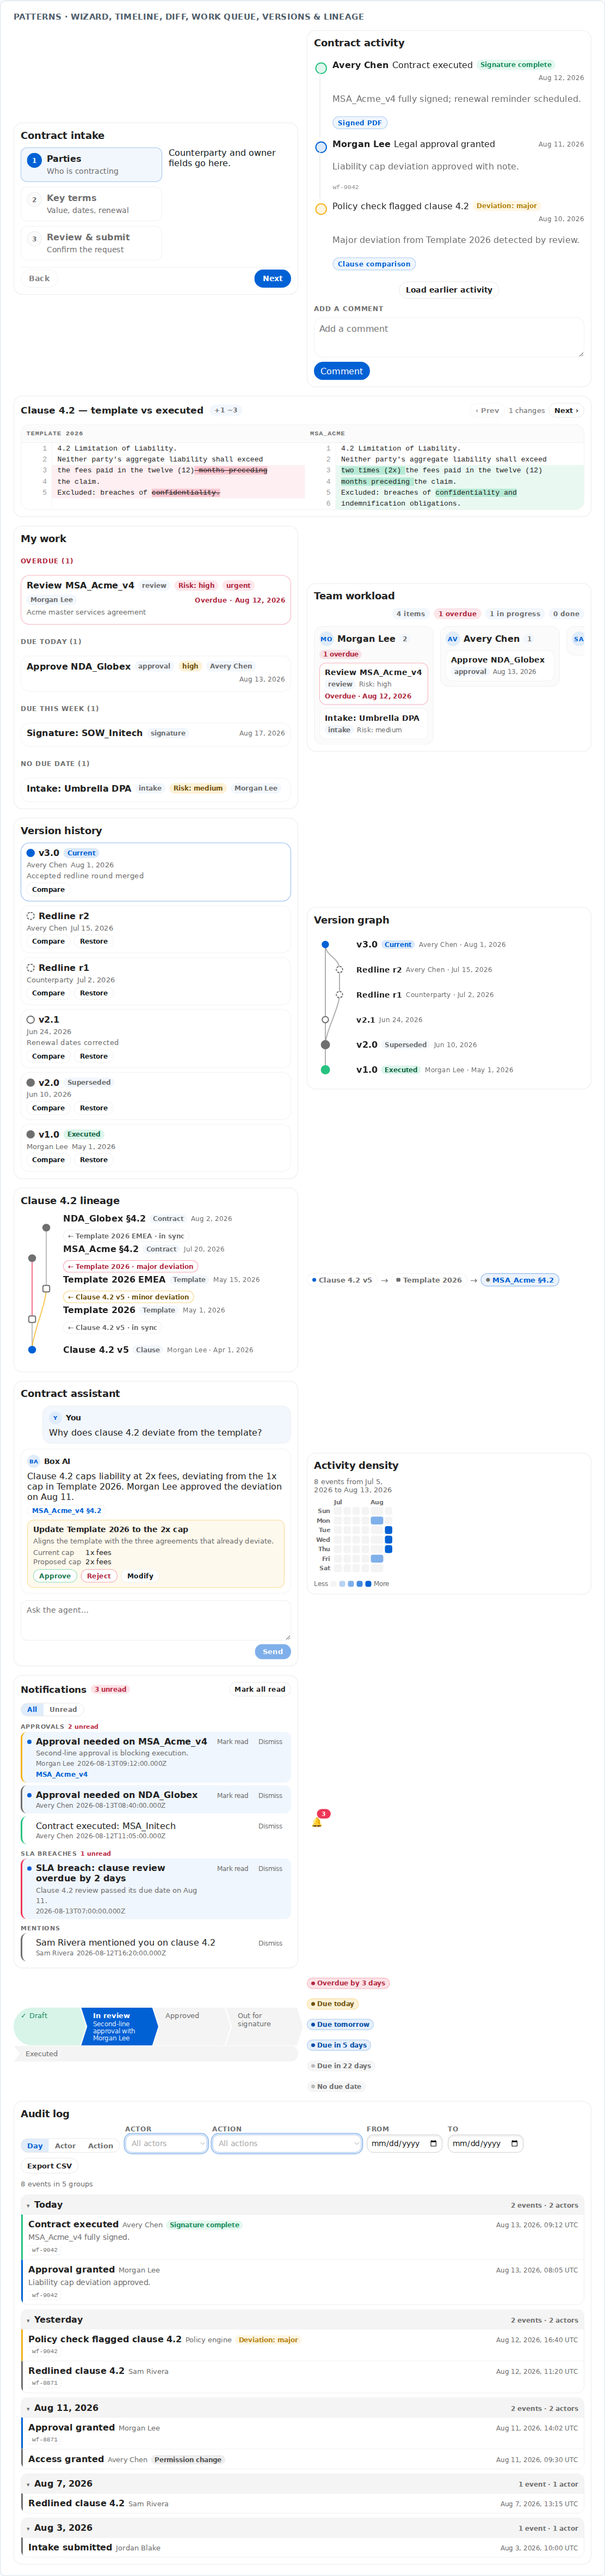
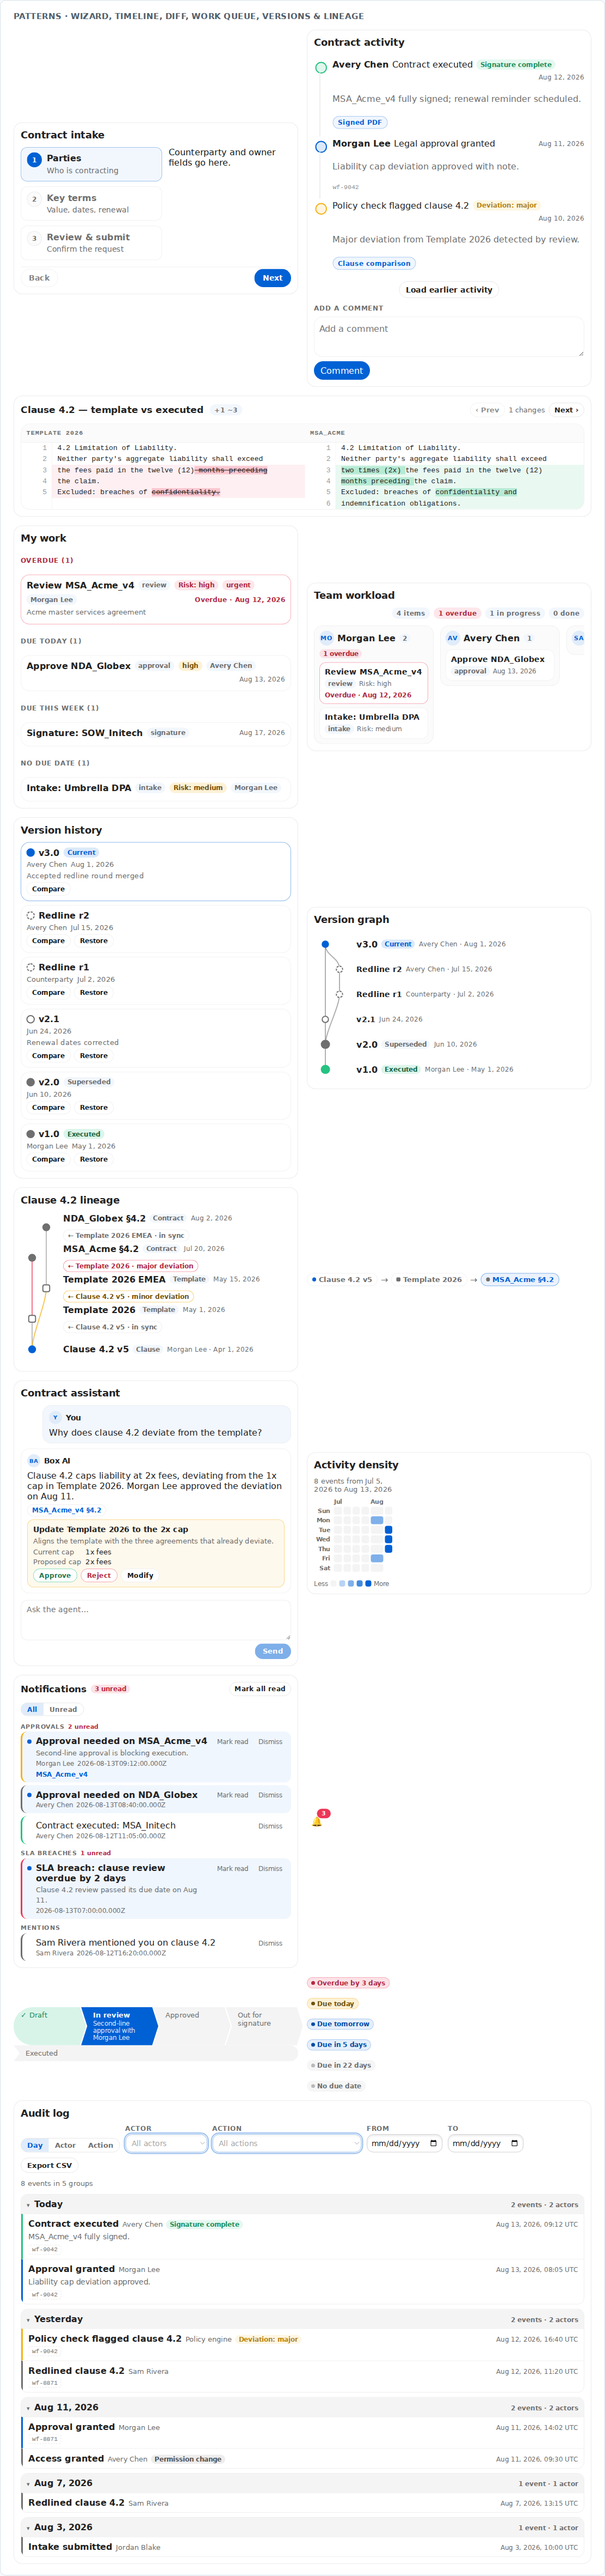
fix(tools): Make visual baselines deterministic (#180)
* fix(tools): Make visual baselines deterministic [regen-baselines]

A screenshot could change without the UI changing, so every regen needed
forensic work to separate a real change from noise. The last docs batch
needed a shift-scoring script to clear two images it had never touched.
Three independent causes, all fixed here.

**Animations were caught mid-flight.** The spinner landed on a different
rotation phase every run, drifting feedback.png for three rounds running.
Both scripts now screenshot with `animations: "disabled"`, which rewinds
animations to their first frame rather than freezing them wherever they
happen to be.

**Section clips moved with the page.** Gallery sections were photographed
out of one tall page, and glyphs rasterise against their position in the
viewport — so adding a row to any section shifted every section below it by
a pixel. That is how explorer-element.png (12,601 pixels) and
specialized.png entered the last diff without being touched. Each section is
now photographed alone: siblings hidden, scroll reset, scrollbar gutter
pinned so the width cannot change when the page shortens.

I first tried nudging each section onto a whole-pixel boundary, which did
not work — the element screenshot scrolls before capturing, so aligning the
page offset leaves the viewport offset fractional. The perturbation test
caught that; isolation is what actually holds.

**Streamed demos were captured mid-stream.** This one was not previously
[…]

diff --git a/tools/preview/docs-site-shots.ts b/tools/preview/docs-site-shots.ts
@@ -3,7 +3,7 @@
  *
  * Usage: bun run build && bun tools/preview/docs-site-shots.ts
  */
-import { chromium, type Browser } from "playwright-core";
+import { chromium, type Browser, type Page } from "playwright-core";
 import { existsSync, mkdirSync } from "node:fs";
 import { join } from "node:path";
 import { applyDeterministicFonts, blockRemoteFonts } from "./deterministic-fonts.js";
@@ -18,6 +18,36 @@ const ROOT = new URL("../..", import.meta.url).pathname;
 const OUT_DIR = process.env.DOCS_SHOTS_OUT_DIR ?? join(ROOT, "docs/screenshots/docs-site");
 const PORT = 4601;
 const BANNER_TIMEOUT_MS = 20_000;
+const SETTLE_INTERVAL_MS = 250;
+const SETTLE_ATTEMPTS = 24;
+
+/**
+ * Wait until two consecutive frames are byte-identical.
+ *
+ * A route's ready marker says it rendered, not that it finished moving. The
+ * agent-chat demo streams its reply on a timer, so a shot taken at the ready
+ * marker lands wherever the stream happens to have reached — two runs of the
+ * *same commit* produced baselines differing by 43,000 pixels, one caught
+ * mid-sentence with the caret showing. Comparing frames is route-agnostic, so
+ * it also covers whichever asynchronous demo is added next.
+ *
+ * Frames are compared with animations disabled, matching how the real shot is
+ * taken; otherwise a spinner would keep the page looking unsettled forever.
+ */
+const waitForVisualSettle = async (page: Page, label: string): Promise<void> => {
+  let previous = await page.screenshot({ animations: "disabled" });
+  for (let attempt = 0; attempt < SETTLE_ATTEMPTS; attempt += 1) {
+    await page.waitForTimeout(SETTLE_INTERVAL_MS);
+    const current = await page.screenshot({ animations: "disabled" });
+    if (current.equals(previous)) {
+      return;
+    }
+    previous = current;
+  }
+  // Capture anyway rather than failing the run: a genuinely unsettleable page
+  // is a baseline problem to diagnose, not a reason to produce no shots.
+  console.warn(`[settle] ${label} never stabilised in ${String(SETTLE_ATTEMPTS)} frames`);
+};
 
 const routes: Array<[name: string, hash: string, readyMarker: string, scrollTo?: string]> = [
   ["home", "#home", "home/home"],
@@ -126,7 +156,10 @@ try {
       await page.locator(scrollTo).first().scrollIntoViewIfNeeded({ timeout: 15_000 });
     }
     await page.waitForTimeout(150);
-    await page.screenshot({ path: join(OUT_DIR, `${name}.png`) });
+    await waitForVisualSettle(page, name);
+    // Rewind CSS animations to their first frame; otherwise anything spinning
+    // on the page is caught at an arbitrary phase and the baseline drifts.
+    await page.screenshot({ path: join(OUT_DIR, `${name}.png`), animations: "disabled" });
     console.log(`captured ${name}.png`);
   }
 
@@ -146,7 +179,8 @@ try {
     await page.waitForSelector('html[data-theme="dark"]', { timeout: 5_000 });
     await applyDeterministicFonts(page);
     await page.waitForTimeout(200);
-    await page.screenshot({ path: join(OUT_DIR, `${name}.png`) });
+    await waitForVisualSettle(page, name);
+    await page.screenshot({ path: join(OUT_DIR, `${name}.png`), animations: "disabled" });
     console.log(`captured ${name}.png`);
   }
 } finally {

diff --git a/tools/preview/capture.ts b/tools/preview/capture.ts
@@ -72,13 +72,48 @@ try {
   await applyDeterministicFonts(page);
   await page.waitForTimeout(250);
 
-  const sections = await page.locator("section[id]").all();
-  for (const section of sections) {
-    const id = await section.getAttribute("id");
-    const target = join(OUT_DIR, `${id!.replace(/^section-/, "")}.png`);
-    await section.screenshot({ path: target });
+  // Reserve the scrollbar gutter for the whole run. Sections are captured one
+  // at a time with the others hidden (below), which leaves the page short
+  // enough to lose its scrollbar — and a scrollbar appearing or disappearing
+  // changes the content width, which would move everything horizontally.
+  await page.addStyleTag({ content: "html { overflow-y: scroll !important; }" });
+
+  const sectionIds = await page.locator("section[id]").evaluateAll(nodes =>
+    nodes.map(node => node.id),
+  );
+
+  for (const id of sectionIds) {
+    const target = join(OUT_DIR, `${id.replace(/^section-/, "")}.png`);
+
+    // Photograph each section alone.
+    //
+    // An element screenshot clips at the element's bounding box, and glyphs
+    // are rasterised against their position in the viewport. While every
+    // section shares one tall page, that position depends on how much content
+    // sits above — so adding a single row to the CLM section shifted two
+    // untouched baselines by a pixel and dragged them into the diff, one of
+    // them by 12,601 pixels. Hiding the siblings puts every section at the
+    // same content-independent offset, so a section's capture can only change
+    // when that section changes.
+    await page.evaluate(visible => {
+      for (const node of document.querySelectorAll<HTMLElement>("section[id]")) {
+        node.style.display = node.id === visible ? "" : "none";
+      }
+      window.scrollTo(0, 0);
+    }, id);
+
+    // `animations: "disabled"` rewinds CSS animations to their first frame
+    // rather than catching them mid-flight — without it the spinner lands on
+    // a different rotation phase every run and feedback.png drifts forever.
+    await page.locator(`#${id}`).screenshot({ path: target, animations: "disabled" });
     console.log(`captured ${target}`);
   }
+
+  await page.evaluate(() => {
+    for (const node of document.querySelectorAll<HTMLElement>("section[id]")) {
+      node.style.display = "";
+    }
+  });
 } finally {
   await browser.close();
   server.stop();

diff --git a/CHANGELOG.md b/CHANGELOG.md
@@ -10,6 +10,37 @@ Generated from git: `git log main --since="2026-07-14" --until="2026-07-18"`.
 
 ## Unreleased
 
+- Visual baselines are now deterministic. Three separate sources of churn
+  meant a screenshot could change without the UI changing, so every regen
+  needed forensic work to tell a real change from noise — the last batch
+  needed a shift-scoring script to clear two images it had never touched.
+
+  **Animations were caught mid-flight.** The spinner landed on a different
+  rotation phase every run, drifting `feedback.png` for three rounds
+  running. Both capture scripts now screenshot with `animations: "disabled"`,
+  which rewinds animations to their first frame.
+
+  **Section clips moved with the page.** Gallery sections were photographed
+  from one tall page, and glyphs rasterise against their position in the
+  viewport — so adding a row to any section shifted every section below it
+  by a pixel. That is how `explorer-element.png` (12,601 pixels) and
+  `specialized.png` entered the last diff untouched. Each section is now
+  photographed alone, with its siblings hidden and the scrollbar gutter
+  pinned, so its capture cannot depend on anything else on the page.
+
+  **Streamed demos were captured mid-stream.** A route's ready marker says
+  it rendered, not that it stopped moving: the agent-chat demo streams on a
+  timer, and two runs of the same commit produced baselines 43,000 pixels
+  apart — one caught mid-sentence with the caret showing. Docs-site shots
+  now wait for two consecutive frames to be byte-identical before capturing.
+  The gate is route-agnostic, so it also covers whatever asynchronous demo
+  comes next.
+
+  Verified empirically rather than by inspection: two full capture runs of
+  an unchanged tree are byte-identical, and adding a row to one gallery
+  section now changes that section's baseline **and nothing else** — where
+  before the same edit moved two unrelated images.
+
 - Docs-site, workshop, and gallery coverage for the three elements that
   landed since the last docs batch: `box-shortcuts-overlay`,
   `box-stage-path`, and `box-due-badge`. Registry entries, live examples with

diff --git a/plans/component-opportunities.md b/plans/component-opportunities.md
@@ -172,3 +172,9 @@ static-shell depth. One work-item model, two projections:
 Docs-site integration (registry/examples/stories + one baseline regen)
 and the CLM-flavoured composition Build Along ride alongside these in
 batches, as with rounds 3 and 4.
+
+Baseline regens are now cheap to read: capture was made deterministic
+(animations rewound, sections photographed in isolation, streamed demos
+allowed to settle), so a changed screenshot means changed UI. Before that
+fix a regen routinely moved images the batch had never touched, and each
+one had to be cleared by hand.
